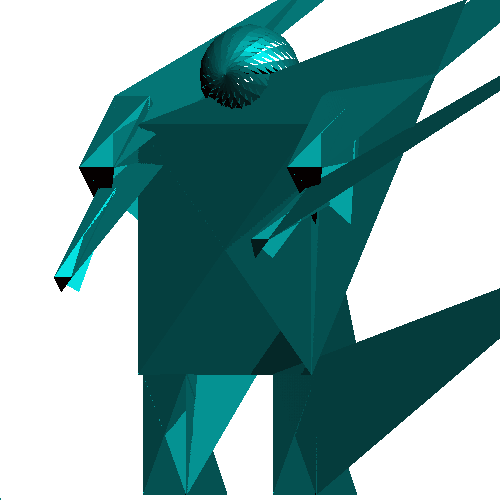
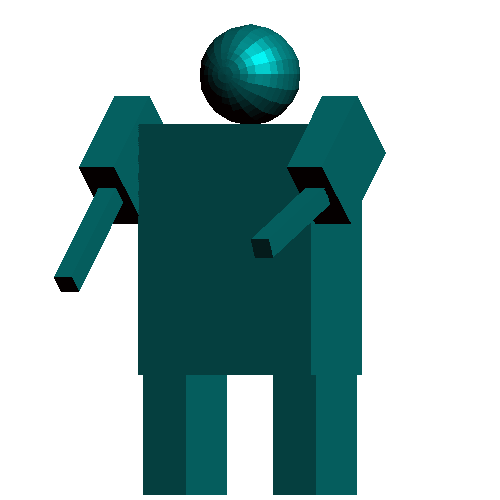
done

Changed region(s): [[0.15, 0.0, 1.0, 0.99], [0.33, 0.75, 0.51, 0.99], [0.09, 0.48, 0.21, 0.6]]

diff --git a/my_main.c b/my_main.c
@@ -127,7 +127,7 @@ void my_main() {
                     xvals[1], yvals[1], zvals[1]);
       */
       add_box(tmp, op[i].op.box.d0[0],op[i].op.box.d0[1], op[i].op.box.d0[2], op[i].op.box.d1[0],op[i].op.box.d1[1], op[i].op.box.d1[2]);
-        
+
       matrix_mult(peek(systems), tmp);
       draw_polygons(tmp, s, zb,
 		    view, light, ambient, areflect, dreflect, sreflect);
@@ -143,7 +143,6 @@ void my_main() {
       add_sphere( polygons, xvals[0], yvals[0], zvals[0], r, step_3d);
       */
       add_sphere(tmp, op[i].op.sphere.d[0], op[i].op.sphere.d[1], op[i].op.sphere.d[2], op[i].op.sphere.r, step);
-
       matrix_mult(peek(systems), tmp);
       draw_polygons(tmp, s, zb,
 		    view, light, ambient, areflect, dreflect, sreflect);
@@ -198,6 +197,7 @@ void my_main() {
 
       matrix_mult(peek(systems), tmp);
       copy_matrix(tmp, peek(systems));
+      tmp->lastcol = 0;
     }//end scale
     
     else if ( op[i].opcode == MOVE){
@@ -212,6 +212,7 @@ void my_main() {
       
       matrix_mult(peek(systems), tmp);
       copy_matrix(tmp, peek(systems));
+      tmp->lastcol = 0;
     }//end translate
     
     else if ( op[i].opcode == ROTATE){
@@ -237,6 +238,7 @@ void my_main() {
 	tmp = make_rotZ( theta );
       matrix_mult(peek(systems), tmp);
       copy_matrix(tmp, peek(systems));
+      tmp->lastcol = 0;
     }//end rotate
     
     else if ( op[i].opcode == DISPLAY){
@@ -251,8 +253,7 @@ void my_main() {
       save_extension(s, op[i].op.save.p->name);
     }//end save
   }
-  free_stack(systems);
-  free(*s);
-  free(*zb);
-  free(tmp);
+  //free_stack(systems);
+  //free(s);
+  //free(zb);
 }
